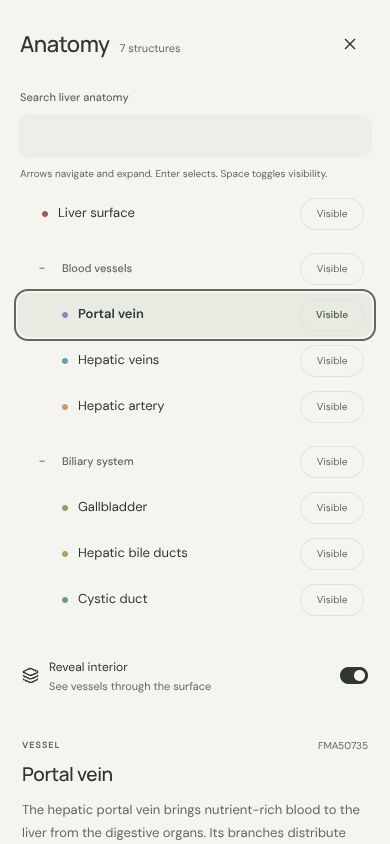
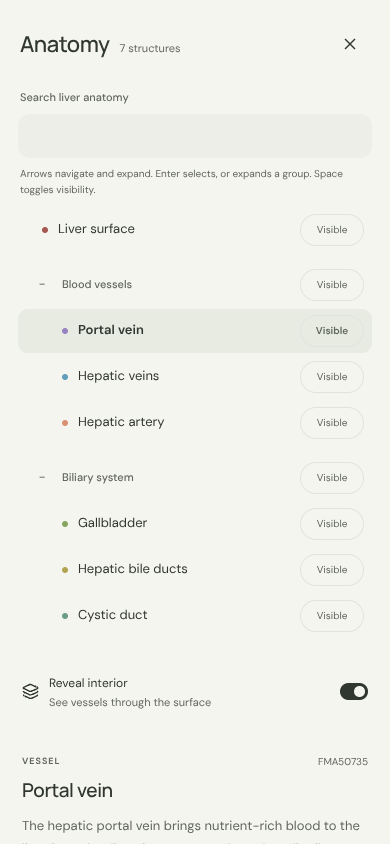
Reinstall the anatomy tree from OrganUI PR #12 and use its new options
Reinstall the registry `anatomy-tree` with shadcn@4.21.0 (-o) from the
artifact built at organui d6b36d0 (PR #12, served locally), keeping the
exact @base-ui/react 1.8.0 pin and an unchanged bun.lock.

- Leaves pass their structure colour (the 3D mesh colour) as `color`;
  remove the aria-label-matched colour CSS and the ::before dot. CSS only
  sizes the swatch to 6px and fades it on hidden rows.
- Group rows are `selectable: false`, so their name or Enter expands and
  collapses them; keep only a cheap leaf guard in onSelectionChange.
- Rely on the built-in reveal for 3D picks inside collapsed groups; the
  reset remount stays because it also clears search.
- Add adapter tests for colours and non-selectable groups; update the
  registry notes (checksums, options, resolved friction), verification
  notes, README and the open-panel screenshots.

Claude-Session: https://claude.ai/code/session_01WZXw8BNji5gYqeZAzSuRCJ

diff --git a/src/components/ui/anatomy-tree.tsx b/src/components/ui/anatomy-tree.tsx
@@ -5,6 +5,13 @@ export type AnatomyNode = {
   id: string
   label: string
   children?: readonly AnatomyNode[]
+  /** A CSS color shown as a decorative swatch before the label. */
+  color?: string
+  /**
+   * Defaults to true. A row that is not selectable expands or collapses
+   * instead, for groupings that have no single structure to select.
+   */
+  selectable?: boolean
 }
 export type AnatomyTreeProps = {
   data: readonly AnatomyNode[]
@@ -158,11 +165,35 @@ export function AnatomyTree({
   const helpId = React.useId()
   const searchId = React.useId()
   const searching = deferredQuery.trim() !== ""
+  const groupsExpand = React.useMemo(
+    () => [...index.nodes.values()].some((node) => node.selectable === false),
+    [index]
+  )
   const rows = React.useMemo(
     () => anatomyRows(data, index, expanded, deferredQuery),
     [data, index, expanded, deferredQuery]
   )
   const focusId = focusTarget(rows, activePath, index.parents)
+  // Reveal a selection made outside the tree, such as in a 3D view: when its
+  // row is not shown, expand its ancestors, then scroll the row into view.
+  const [reveal, setReveal] = React.useState({ id: selectedId, scroll: false })
+  if (reveal.id !== selectedId) {
+    const known = !!selectedId && index.nodes.has(selectedId)
+    const shown = rows.some(({ node }) => node.id === selectedId)
+    setReveal({ id: selectedId, scroll: known })
+    const ancestors: string[] = []
+    let parent = known && !shown ? index.parents.get(selectedId!) : undefined
+    while (parent) {
+      ancestors.push(parent)
+      parent = index.parents.get(parent)
+    }
+    if (ancestors.some((id) => !expanded.has(id)))
+      setExpanded(new Set([...expanded, ...ancestors]))
+  }
+  React.useEffect(() => {
+    if (reveal.scroll && reveal.id)
+      refs.current.get(reveal.id)?.scrollIntoView?.({ block: "nearest" })
+  }, [reveal])
   React.useLayoutEffect(() => {
     // Recover only when an update removed the focused element. Focus that
     // left the tree on purpose, even to the body, is never taken back.
@@ -187,6 +218,10 @@ export function AnatomyTree({
       return next
     })
   }
+  function activate(node: AnatomyNode) {
+    if (node.selectable !== false) onSelectionChange(node.id)
+    else if (node.children?.length && !searching) toggleExpanded(node.id)
+  }
   function toggleVisibility(node: AnatomyNode) {
     onVisibilityChange(nextVisibility(node, index, visibility))
   }
@@ -206,7 +241,9 @@ export function AnatomyTree({
         className="mb-3 w-full rounded-md border bg-background px-3 py-2 text-sm focus-visible:outline-2 focus-visible:outline-ring"
       />
       <p id={helpId} className="mb-3 text-xs text-muted-foreground">
-        Arrows navigate and expand. Enter selects. Space toggles visibility.
+        {groupsExpand
+          ? "Arrows navigate and expand. Enter selects, or expands a group. Space toggles visibility."
+          : "Arrows navigate and expand. Enter selects. Space toggles visibility."}
       </p>
       <div
         role="tree"
@@ -249,7 +286,9 @@ export function AnatomyTree({
               aria-setsize={size}
               aria-posinset={position}
               aria-expanded={branch ? open : undefined}
-              aria-selected={selectedId === node.id}
+              aria-selected={
+                node.selectable === false ? undefined : selectedId === node.id
+              }
               aria-checked={checked}
               tabIndex={focusId === node.id ? 0 : -1}
               onFocus={() => {
@@ -290,7 +329,7 @@ export function AnatomyTree({
                   if (branch && open && !searching) toggleExpanded(node.id)
                   else focus(index.parents.get(node.id))
                 }
-                if (event.key === "Enter") onSelectionChange(node.id)
+                if (event.key === "Enter") activate(node)
                 if (event.key === " ") toggleVisibility(node)
               }}
               className="my-1 flex min-h-10 items-center gap-1 rounded-md px-2 text-sm outline-offset-2 hover:bg-muted focus-visible:outline-2 focus-visible:outline-ring aria-selected:bg-accent aria-selected:font-semibold"
@@ -316,11 +355,18 @@ export function AnatomyTree({
                 tabIndex={-1}
                 onClick={() => {
                   focus(node.id)
-                  onSelectionChange(node.id)
+                  activate(node)
                 }}
-                className="min-w-0 flex-1 py-2 text-start break-words"
+                className="flex min-w-0 flex-1 items-center gap-2 py-2 text-start break-words"
               >
-                {node.label}
+                {node.color && (
+                  <span
+                    aria-hidden="true"
+                    className="size-2.5 shrink-0 rounded-full"
+                    style={{ backgroundColor: node.color }}
+                  />
+                )}
+                <span className="min-w-0">{node.label}</span>
               </Button>
               <Button
                 tabIndex={-1}

diff --git a/src/anatomy-adapter.test.ts b/src/anatomy-adapter.test.ts
@@ -3,12 +3,14 @@ import {
   allStructureIds,
   anatomyTree,
   assertAnatomyMapping,
+  groupIds,
   hiddenFromVisibility,
   isStructureId,
   normalizeVisibility,
   sceneIdsForNode,
   visibilityFromHidden,
 } from "./anatomy-adapter";
+import { structures } from "./anatomy";
 
 test("every scene structure appears exactly once as a tree leaf", () => {
   expect(() => assertAnatomyMapping()).not.toThrow();
@@ -67,4 +69,20 @@ test("tree visibility treats missing leaves as visible and round-trips the hidde
   expect(hiddenFromVisibility(visibilityFromHidden(allStructureIds))).toEqual(
     allStructureIds,
   );
+});
+
+test("leaves carry their mesh colour and group rows are not selectable", () => {
+  const rows = anatomyTree.flatMap((node) => [node, ...(node.children ?? [])]);
+  for (const row of rows) {
+    const structure = structures.find(({ id }) => id === row.id);
+    if (structure) {
+      expect(row.color).toBe(structure.color);
+      expect(row.selectable).toBeUndefined();
+    } else {
+      expect(groupIds).toContain(row.id as (typeof groupIds)[number]);
+      expect(row.selectable).toBe(false);
+      expect(row.color).toBeUndefined();
+    }
+  }
+  expect(rows.filter((row) => row.color)).toHaveLength(structures.length);
 });

diff --git a/src/App.tsx b/src/App.tsx
@@ -48,13 +48,6 @@ import {
 } from "./anatomy-adapter";
 
 const Scene = lazy(() => import("./Scene"));
-// Colour keys for the registry tree rows, matched by their accessible name.
-const treeColors = structures
-  .map(
-    (s) =>
-      `.registry-tree [role="treeitem"][aria-label="${s.name}"]{--structure-color:${s.color}}`,
-  )
-  .join("");
 
 class SceneBoundary extends Component<
   { children: ReactNode; onError: (s: string) => void },
@@ -534,13 +527,13 @@ export default function App() {
               <X size={18} />
             </button>
           </div>
-          <style>{treeColors}</style>
           <AnatomyTree
             key={treeVersion}
             data={anatomyTree}
             selectedId={selected}
             onSelectionChange={(id) => {
-              // Group rows are interface groupings; selection stays on leaves.
+              // Group rows are not selectable (they expand instead); the
+              // guard only keeps the app's selection typed to leaves.
               if (isStructureId(id)) select(id);
             }}
             visibility={visibilityFromHidden(hidden)}

diff --git a/src/anatomy-adapter.ts b/src/anatomy-adapter.ts
@@ -18,18 +18,26 @@ const groups = [
   category: Category;
 }[];
 
-const leaf = ({ id, name }: (typeof structures)[number]): AnatomyNode => ({
+// Each leaf's swatch is the structure's colour, the same one its 3D mesh uses.
+const leaf = ({
+  id,
+  name,
+  color,
+}: (typeof structures)[number]): AnatomyNode => ({
   id,
   label: name,
+  color,
 });
 
 // The single liver surface stays a top-level leaf, so no group row implies
-// that the vessels or bile ducts sit inside it.
+// that the vessels or bile ducts sit inside it. Group rows are not selectable:
+// clicking one (or pressing Enter on it) expands or collapses it.
 export const anatomyTree: readonly AnatomyNode[] = [
   ...structures.filter((s) => s.category === "Organ").map(leaf),
   ...groups.map(({ id, label, category }) => ({
     id,
     label,
+    selectable: false,
     children: structures.filter((s) => s.category === category).map(leaf),
   })),
 ];

diff --git a/src/style.css b/src/style.css
@@ -569,15 +569,10 @@
 .registry-tree [role="treeitem"] > button:nth-child(2):hover {
   background: transparent;
 }
-.registry-tree
-  [role="treeitem"]:not([aria-expanded])
-  > button:nth-child(2)::before {
-  content: "";
+/* The component's colour swatch, sized like the selection chip's dot. */
+.registry-tree [role="treeitem"] > button:nth-child(2) > span[aria-hidden] {
   width: 6px;
   height: 6px;
-  flex-shrink: 0;
-  border-radius: 50%;
-  background: var(--structure-color, var(--muted-ink));
 }
 .registry-tree [role="treeitem"][aria-expanded] > button:nth-child(2) {
   color: var(--muted-ink);
@@ -589,8 +584,9 @@
 }
 .registry-tree
   [role="treeitem"][aria-checked="false"]
-  > button:nth-child(2)::before {
-  background: #b3b7af;
+  > button:nth-child(2)
+  > span[aria-hidden] {
+  opacity: 0.35;
 }
 .registry-tree [role="treeitem"] > button:last-child {
   min-width: 58px;

diff --git a/docs/REGISTRY_INTEGRATION.md b/docs/REGISTRY_INTEGRATION.md
@@ -4,27 +4,27 @@ The Anatomy panel's structure list is the OrganUI registry component `anatomy-tr
 
 ## Exact installation
 
-Installed on 2026-10-16 from the registry artifact built from OrganUI `master` at commit `5e20c41`:
+First installed on 2026-10-16 from the registry artifact built from OrganUI `master` at commit `5e20c41`. Reinstalled (overwriting) the same day from the artifact built from OrganUI PR #12 at branch commit `d6b36d0`, which adds the `color` and `selectable` node options and built-in reveal of an outside selection:
 
 ```sh
-REGISTRY_URL=http://127.0.0.1:4410 bunx shadcn@4.21.0 add http://127.0.0.1:4410/anatomy-tree.json -y
+REGISTRY_URL=http://127.0.0.1:4411 bunx shadcn@4.21.0 add http://127.0.0.1:4411/anatomy-tree.json -y -o
 ```
 
-The URL is a local static server (`python3 -m http.server 4410 --bind 127.0.0.1`) serving that build output plus shadcn's `colors/neutral.json`, fetched from the shadcn GitHub repository. `organui.com` and `ui.shadcn.com` were blocked by the network policy of the sandbox the install ran in, so the published URL (`https://organui.com/r/anatomy-tree.json`) could not be used directly. `REGISTRY_URL` points the CLI's own registry lookups (base colors) at the same server. With network access, the equivalent command is:
+The URL is a local static server (`python3 -m http.server 4411 --bind 127.0.0.1`) serving that build output plus shadcn's `colors/neutral.json`, fetched from the shadcn GitHub repository. PR #12 was not merged at install time, so the published registry did not yet carry this version. **After #12 merges, re-verify against `https://organui.com/r/anatomy-tree.json`**: its embedded source should match the checksum below, and a reinstall with the command below should leave `src/components/ui/anatomy-tree.tsx` unchanged. `organui.com` and `ui.shadcn.com` were blocked by the network policy of the sandbox the install ran in, so the published URL (`https://organui.com/r/anatomy-tree.json`) could not be used directly. `REGISTRY_URL` points the CLI's own registry lookups (base colors) at the same server. With network access, the equivalent command is:
 
 ```sh
-bunx shadcn@4.21.0 add https://organui.com/r/anatomy-tree.json -y
+bunx shadcn@4.21.0 add https://organui.com/r/anatomy-tree.json -y -o
 ```
 
-Provenance at install time:
+Provenance of the current install (PR #12, `d6b36d0`):
 
 | Artifact                                     | SHA-256                                                            |
 | -------------------------------------------- | ------------------------------------------------------------------ |
[6 lines of base64/hex data omitted]
 
-The item declares `@base-ui/react@^1.8.0`; this repository pins `@base-ui/react` 1.8.0 (the CLI wrote `^1.8.0`, which was changed back to the exact pin and re-locked with `bun install`). Tailwind CSS and `@tailwindcss/vite` are 4.1.18, matching kidneys. `bun.lock` stays in Bun's text format.
+The item declares `@base-ui/react@^1.8.0`; this repository pins `@base-ui/react` 1.8.0 (on both installs the CLI wrote `^1.8.0`, which was changed back to the exact pin and re-locked with `bun install`; the lockfile did not change). Tailwind CSS and `@tailwindcss/vite` are 4.1.18, matching kidneys. `bun.lock` stays in Bun's text format.
 
 ## Installed-source differences
 
@@ -34,13 +34,15 @@ The `@/* -> src/*` alias was added to `tsconfig.json` and `vite.config.ts` befor
 
 ## API used
 
-- `data`: the hierarchy from the adapter (unique IDs);
+- `data`: the hierarchy from the adapter (unique IDs), with:
+  - `color` on every leaf: the structure's colour from `src/anatomy.ts`, the same value the 3D mesh uses, drawn by the component as a swatch before the label;
+  - `selectable: false` on the two `group-*` rows, so clicking a group's name or pressing Enter on it expands or collapses it instead of selecting, and the row carries no `aria-selected`;
 - `selectedId` / `onSelectionChange`: the app's single controlled selection;
 - `visibility` / `onVisibilityChange`: a controlled map keyed by leaf IDs, where a missing entry means visible;
 - `defaultExpandedIds`: both groups start expanded;
 - `label` (`"Liver anatomy"`) and `className` (`registry-tree`).
 
-Search and disclosure stay internal to the component. Its search matches row labels only.
+Search and disclosure stay internal to the component. Its search matches row labels only. When `selectedId` changes to a row that is not shown (a 3D pick or tour step inside a collapsed group), the component expands its ancestors and scrolls the row into view; the app has no code for this.
 
 ## Application adapter
 
@@ -56,24 +58,24 @@ The groups are built from each structure's existing `category` and reuse the pre
 
 The adapter provides:
 
-- `anatomyTree` and `groupIds` (tree data and default expansion);
+- `anatomyTree` and `groupIds` (tree data with leaf colours and non-selectable groups, and default expansion);
 - `sceneIdsForNode`: the scene structures a row stands for (itself, or a group's leaves);
 - `normalizeVisibility`: applies the "missing means visible" contract to every structure;
 - `visibilityFromHidden` / `hiddenFromVisibility`: converts between the app's existing hidden list and the tree's visibility map;
 - `isStructureId`: distinguishes leaves from group rows;
 - `assertAnatomyMapping`: runs at import and throws if any structure is missing from the tree, a leaf is unknown, or a leaf repeats.
 
-`src/anatomy-adapter.test.ts` (run by `bun test`) covers the mapping, the validation failures, group-to-leaf mapping, and the visibility round trip.
+`src/anatomy-adapter.test.ts` (run by `bun test`) covers the mapping, the validation failures, group-to-leaf mapping, the visibility round trip, leaf colours matching the structure colours, and groups being non-selectable.
 
 ## Decisions
 
 - **State stays in the app.** `App.tsx` keeps its existing `hidden` list and single `selected` structure. The tree receives `visibilityFromHidden(hidden)` and writes back through `hiddenFromVisibility`. Isolate, Hide/Show, Restore all, the reveal switch, the tour, and reset keep writing the same `hidden` list, so the tree always reflects them.
-- **Selection stays on leaves.** The scene highlights one structure (its colour at 0.35 emissive, others ghosted) and the details card describes one structure. Group selection would need multi-structure highlighting and group copy the app does not have, so `onSelectionChange` ignores group IDs. Group rows expand/collapse and toggle visibility for all their leaves; a partly hidden group shows "Mixed", and its toggle shows all of its leaves. Clicking a group's name does nothing.
+- **Selection stays on leaves.** The scene highlights one structure (its colour at 0.35 emissive, others ghosted) and the details card describes one structure. Group selection would need multi-structure highlighting and group copy the app does not have, so group rows are `selectable: false`: their name (click or Enter) expands or collapses them, and their pill toggles visibility for all their leaves; a partly hidden group shows "Mixed", and its toggle shows all of its leaves. `onSelectionChange` keeps a one-line `isStructureId` guard only to keep the app's selection typed to leaves.
 - **Existing selection semantics are kept.** Selecting a leaf from the tree or the model unhides it and, for internal structures, turns on Reveal interior, as before. Selecting never changes the view label to "Custom view".
-- **Reset remounts the tree** (a `key` that reset increments), clearing its internal search and expansion along with selection, visibility, tour and camera.
+- **Reset remounts the tree** (a `key` that reset increments), clearing its internal search and expansion along with selection, visibility, tour and camera. This is the only remount; revealing a selection is built in.
 - **`/` shortcut** opens the panel and focuses the tree's search input.
 - **Hidden structures are not pickable in 3D.** Hidden meshes have `visible = false`, and `pickVisibleMesh` (`src/picking.ts`) ignores intersections with hidden objects or hidden ancestors, so a hidden surface cannot select itself or block a visible one behind it. This was already true and was rechecked in the browser.
-- **Colour keys.** The previous list showed each structure's colour dot. Since the component cannot be edited, `App.tsx` emits one CSS rule per structure that sets `--structure-color` on the row whose accessible name matches, and `style.css` draws the dot.
+- **Colour keys.** Each leaf passes its structure colour as `color`, and the component draws the swatch. The earlier workaround (CSS rules emitted from `App.tsx` matching rows by `aria-label`, plus a `::before` dot in `style.css`) was removed. `style.css` only sizes the swatch to 6 px to match the selection chip's dot and fades it on hidden rows.
 
 ## Theme and preflight
 
@@ -85,7 +87,7 @@ As in kidneys, the app's element resets moved into `@layer base`, so the registr
 
 - The old list's search also matched FMA identifiers, source names and categories. The tree matches row labels only (and shows a group with its matching children). FMA identifiers remain in the details card and model notes.
 - Visibility controls are now text pills ("Visible", "Hidden", "Mixed") instead of eye icons.
-- Group rows are new: they expand/collapse and can show or hide a whole group.
+- Group rows are new: their name expands/collapses them and their pill shows or hides the whole group. The keyboard hint reads "Enter selects, or expands a group".
 - Screen-reader testing was not done. The tree's ARIA roles and keyboard model come from the registry component and were only exercised with keyboard input in headless Chromium.
 
 ## Friction and registry observations
@@ -93,6 +95,7 @@ As in kidneys, the app's element resets moved into `@layer base`, so the registr
 No registry defect blocked the integration, and the component was not forked.
 
 1. The CLI replaces an exact dependency pin with the registry's range (`1.8.0` became `^1.8.0`); the pin was restored by hand.
-2. A group label is a button that calls `onSelectionChange` with the group ID. Consumers that only select leaves must ignore it, so that click does nothing. An option to make branch labels toggle expansion would avoid a dead click.
-3. Rows expose no per-node hook (class or data attribute), so colour keys rely on matching `aria-label`.
-4. Search covers labels only. Consumers whose old search matched synonyms or identifiers lose that unless the component gains keywords.
+2. Search covers labels only. Consumers whose old search matched synonyms or identifiers lose that unless the component gains keywords.
+3. Rows still expose no per-node class or data attribute; with `color` built in, this app no longer needs one.
+
+Resolved by PR #12 and removed from this list: the dead click on group labels (now `selectable: false`) and colour keys matched by `aria-label` (now `color`).

diff --git a/README.md b/README.md
@@ -32,7 +32,7 @@ The production preview is then at [localhost:4175](http://127.0.0.1:4175). Outpu
 
 - Open into a full-window model view with a compact camera menu. The warm neutral canvas, typography, header, and on-demand anatomy panel follow OrganUI Heart’s design.
 - Drag to orbit; scroll or pinch to zoom. Focus the model and use arrow keys to rotate, or `+` / `-` to zoom. Zoom buttons and reset remain in the bottom toolbar.
-- Open **Anatomy** to browse the structure tree: the liver surface plus **Blood vessels** and **Biliary system** groups. The tree is the OrganUI registry [`anatomy-tree`](docs/REGISTRY_INTEGRATION.md) component, installed with the shadcn CLI. Select anatomy from the model or tree; click the selected name on the canvas to open its details. Press `/` to open and focus the tree search, which matches structure and group names. Selecting a hidden structure makes it visible; choosing an internal structure reveals the liver surface.
+- Open **Anatomy** to browse the structure tree: the liver surface plus **Blood vessels** and **Biliary system** groups. The tree is the OrganUI registry [`anatomy-tree`](docs/REGISTRY_INTEGRATION.md) component, installed with the shadcn CLI. Select anatomy from the model or tree (a group name expands or collapses its group, and a model pick opens the group holding it); click the selected name on the canvas to open its details. Press `/` to open and focus the tree search, which matches structure and group names. Selecting a hidden structure makes it visible; choosing an internal structure reveals the liver surface.
 - Hide or show a structure or a whole group from the tree (a partly hidden group reads "Mixed"), isolate the current selection, restore all, or reset the complete scene, camera, and tree search.
 - Choose overview, anterior, posterior, inferior, or superior from the camera dropdown. Arrow keys, Home/End, Enter, and Escape also operate the menu. Isolating a structure fits the camera to it; opening or closing Anatomy preserves the viewing angle.
 - Follow a four-step guided exploration inside the anatomy panel. Every structure has accessible text, source links, and notes on what its model represents. On mobile, **View in 3D** closes the panel and returns to the model.
@@ -57,7 +57,7 @@ To regenerate the bundled model, run `bun run prepare:model`, then `bun run veri
 
 ## Verification
 
-Type checking, production build, formatting check, runtime model integrity, visibility-state regression tests, and anatomy-adapter tests pass. The registry tree integration was checked in headless Chromium at 1440 × 900 and 390 × 844 on 2026-10-16 (search, tree and 3D selection, leaf and group visibility, restore, reset, Escape focus return, no console errors or mobile overflow); screen-reader testing was not done. A clean copy with no dependencies, raw model cache, or sibling checkouts installed from `bun.lock`, built successfully, and passed model verification. The refreshed layout, including the 2026-10-03 polish pass, was inspected at 1440 × 900, 800 × 700, and 390 × 844, including collapsed and expanded anatomy panels. Rendering and interactions were checked in a Chromium browser; see [verification evidence and manual steps](docs/VERIFICATION.md).
+Type checking, production build, formatting check, runtime model integrity, visibility-state regression tests, and anatomy-adapter tests pass. The registry tree integration was checked in headless Chromium at 1440 × 900 and 390 × 844 on 2026-10-16 (search, tree and 3D selection, colour swatches, group rows expanding instead of selecting, a 3D pick revealing its row in a collapsed group, leaf and group visibility, restore, reset, Escape focus return, no console errors or mobile overflow); screen-reader testing was not done. A clean copy with no dependencies, raw model cache, or sibling checkouts installed from `bun.lock`, built successfully, and passed model verification. The refreshed layout, including the 2026-10-03 polish pass, was inspected at 1440 × 900, 800 × 700, and 390 × 844, including collapsed and expanded anatomy panels. Rendering and interactions were checked in a Chromium browser; see [verification evidence and manual steps](docs/VERIFICATION.md).
 
 Known engineering limits: Three.js creates a roughly 969 kB minified engine chunk (257 kB gzip), producing Vite's size warning. The scene is loaded separately. React Three Fiber emits a non-fatal `THREE.Clock` deprecation warning against Three.js 0.186. No application errors were observed in the final normal production preview. Physical iOS/Android, Safari/Firefox, assistive-technology audits, and performance on low-end devices have not been tested.
 

diff --git a/docs/VERIFICATION.md b/docs/VERIFICATION.md
@@ -90,7 +90,7 @@ Commands, all passing: `bun install --frozen-lockfile` from a clean copy (no `no
 Checked against the production preview in headless Chromium (Playwright, SwiftShader WebGL) at 1440 × 900 and 390 × 844, with a scripted run that asserts each step:
 
 - Panel closed on arrival. A 3D click selects the liver surface, shows the selection chip, and leaves the view label on Overview; the chip name opens the panel with focus inside it, and the tree marks the same row selected. Escape closes the panel and returns focus to the header Anatomy button.
-- Tree search for `portal` shows only Blood vessels and Portal vein. Selecting Portal vein in the tree updates the chip, details card, and 3D highlight (screenshot below), and the view label stays Overview. Clicking a group name leaves the selection unchanged.
+- Tree search for `portal` shows only Blood vessels and Portal vein. Selecting Portal vein in the tree updates the chip, details card, and 3D highlight (screenshot below), and the view label stays Overview. Clicking a group name left the selection unchanged (it now expands/collapses the group; see the reinstall below).
 - Hiding Hepatic artery sets Blood vessels to Mixed and the status to 6 of 7. Hiding the Biliary system group hides its three leaves (3 of 7); toggling the mixed Blood vessels group shows all its leaves (4 of 7). Restore all returns every row to Visible (7 of 7).
 - With the liver surface hidden, clicks where it was rendered do not select it (desktop).
 - After collapsing a group, searching, and selecting, Reset clears the search, re-expands both groups (9 rows), and clears the selection and chip.
@@ -102,3 +102,20 @@ Before/after builds were compared by recording the bounding box of every element
 Screenshots refreshed from this build: [desktop](screenshots/desktop.png), [interior](screenshots/interior.png) (Portal vein selected from the tree, panel open), [mobile](screenshots/mobile.png), and new [mobile anatomy](screenshots/mobile-anatomy.png) (tree at 390 px).
 
 Not verified: screen-reader behaviour of the tree (no assistive-technology testing was done), Safari/Firefox, physical touch devices. The failure fixtures and reduced-motion checks were not repeated; those code paths did not change.
+
+## Registry anatomy tree reinstall (16 October 2026)
+
+`anatomy-tree` was reinstalled from OrganUI PR #12 (`d6b36d0`, served locally; see [registry integration](REGISTRY_INTEGRATION.md)). Leaves now pass their structure colour as `color`, the two groups are `selectable: false`, and the `aria-label` colour CSS was removed. Model, anatomy content, scene code and `src/framing.ts` are unchanged.
+
+Commands, all passing: clean `bun install --frozen-lockfile`, `bun run typecheck`, `bun test` (10 tests across 3 files), `bun run build`, `bun run format:check`, `bun run verify:model`.
+
+Checked against the production preview in headless Chromium (Playwright, SwiftShader WebGL) at 1440 × 900 and 390 × 844 with a scripted run:
+
+- Panel closed on arrival; opening it moves focus into the panel. Every leaf shows a 6 px swatch whose computed colour equals its structure (mesh) colour; group rows have no swatch and no `aria-selected`.
+- With Portal vein selected, clicking the Blood vessels name collapses the group and pressing Enter on it expands it again; the selection stays on Portal vein and the view label stays Overview.
+- With Blood vessels collapsed and Reveal interior on, a 3D click on a vessel (Hepatic veins) expanded the group, marked the row selected and left it in view, without a view-label change.
+- Search `cystic` shows Biliary system and Cystic duct; selecting it updates the chip. Hiding Hepatic artery sets Blood vessels to Mixed (its swatch fades); the group toggle shows all its leaves; hiding Biliary system hides its leaves.
+- Reset clears the search, re-expands both groups (9 rows) and clears the selection. Escape closes the panel and returns focus to the header Anatomy button.
+- No horizontal overflow at 390 px and no console errors at either size.
+
+Screenshots refreshed: [interior](screenshots/interior.png) and [mobile anatomy](screenshots/mobile-anatomy.png). Screen-reader testing was again not done.
